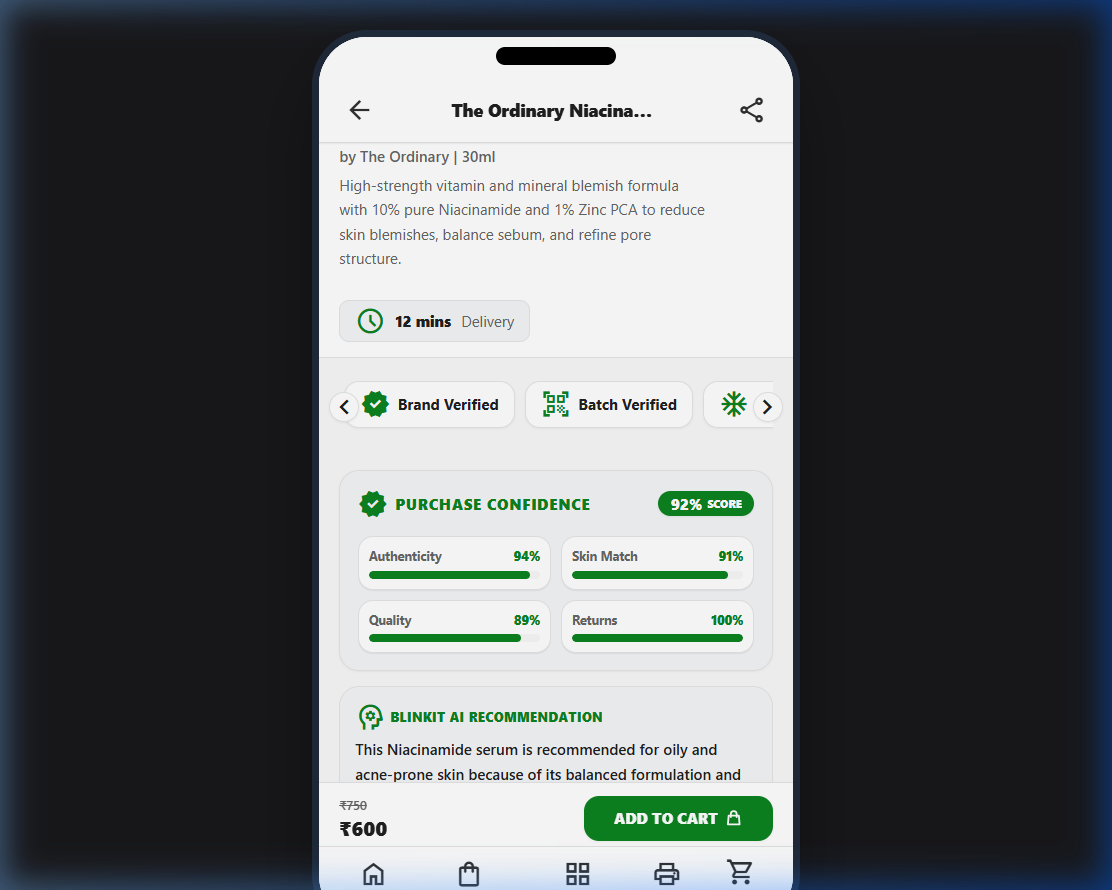
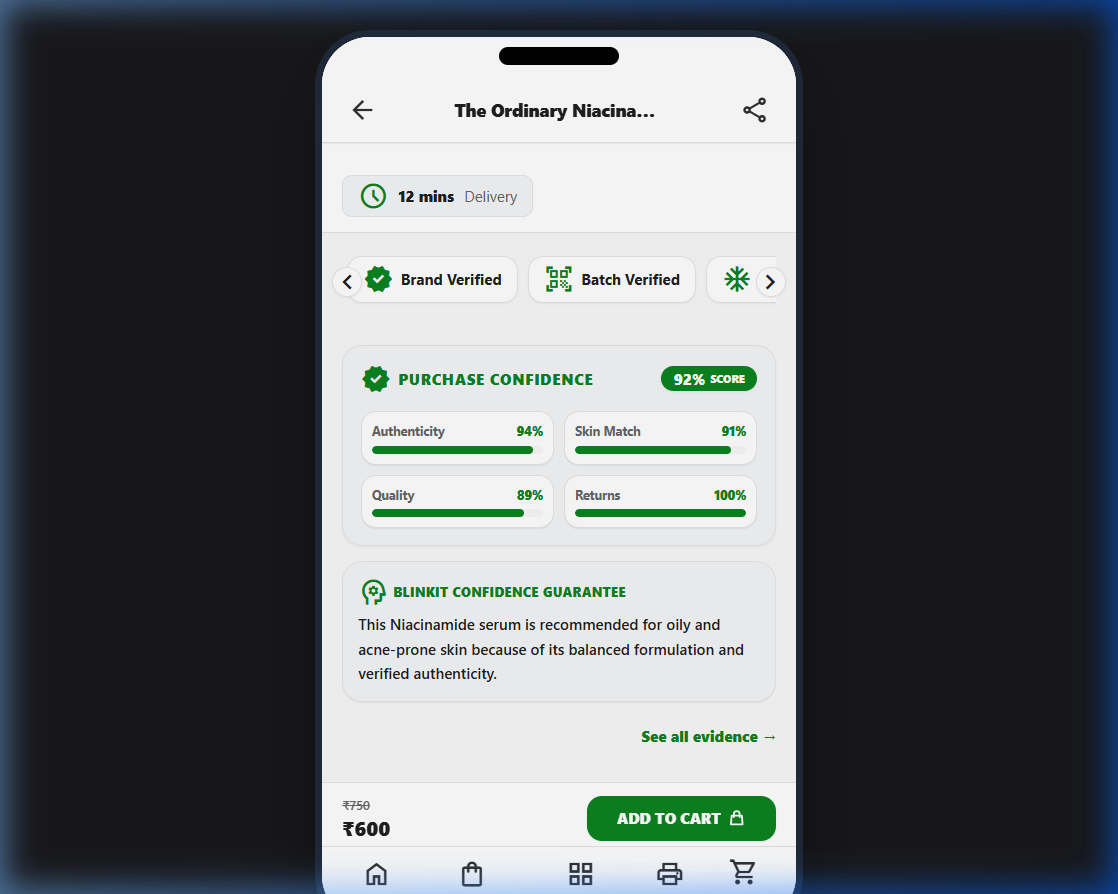
docs: add homepage screenshot, replace all screenshots with Blinkit Confidence Guarantee branding

diff --git a/README.md b/README.md
@@ -26,6 +26,10 @@ The product principle: **Engineer Purchase Confidence, not Product Discovery.**
 
 ## Screenshots
 
+### Homepage — Confidence Guarantee Banner
+
+![Homepage showing Confidence Guarantee banner with AI-powered Confidence Check tagline](docs/screenshots/homepage_banner.png)
+
 ### Product Detail Page — Blinkit Confidence Guarantee Panel
 
 ![Product Detail Page showing Blinkit Confidence Guarantee panel with 4-dimension trust scores](docs/screenshots/pdp_confidence_panel.png)
